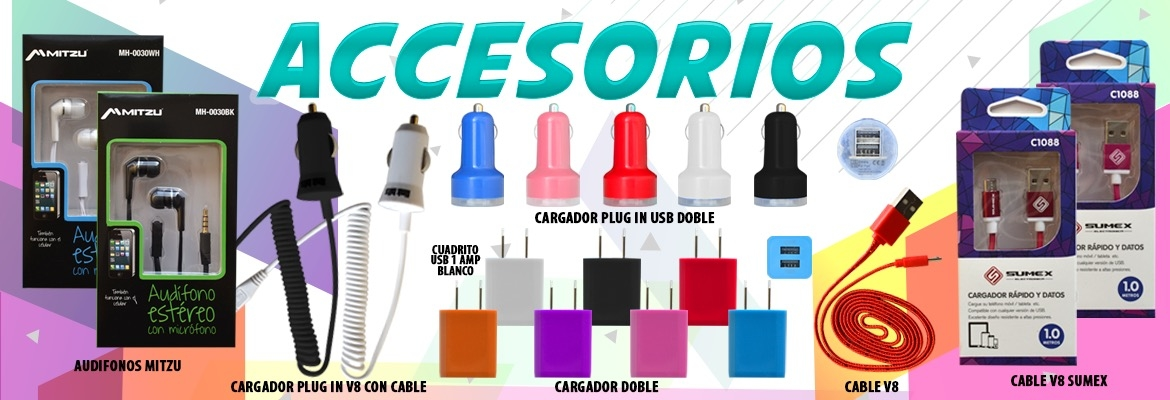
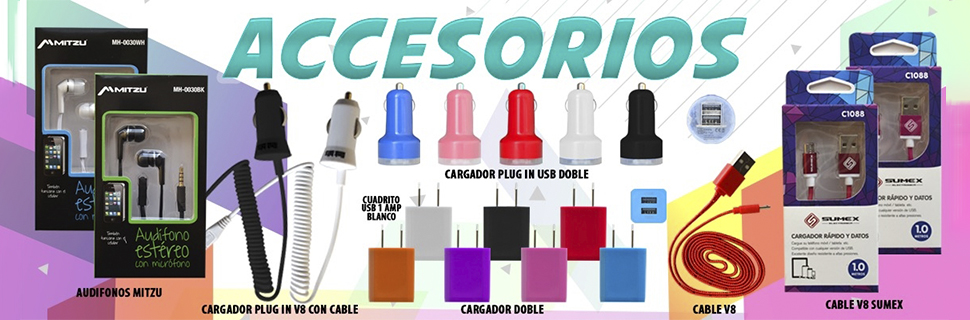
act
banner responsive...(machetico chan)

diff --git a/htmls/home.php b/htmls/home.php
@@ -12,20 +12,20 @@
         <li data-target="#myCarousel" data-slide-to="3"></li>
       </ol>
       <!-- Wrapper for slides -->
-      <div class="carousel-inner"> <!-- Recuerden cambiar las imagenes por una que sean de tipo marketin -->
+      <div class="carousel-inner" style="height:40%;"> <!-- Recuerden cambiar las imagenes por una que sean de tipo marketin -->
         <div class="item active">
-          <img style="height:400px;width:100%;" src="./../img/2.jpg" alt="Imagen1" >
+          <img style="height:100%;width:100%;" src="./../img/2.jpg" alt="Imagen1" >
         </div>
 
         <div class="item">
-          <img style="height:400px;width:100%;" src="./../img/3.jpg" alt="Imagen2">
+          <img style="height:100%;width:100%;" src="./../img/3.jpg" alt="Imagen2">
         </div>
 
         <div class="item">
-          <img style="height:400px;width:100%;" src="./../img/1.jpg" alt="Imagen3" >
+          <img style="height:100%;width:100%;" src="./../img/1.jpg" alt="Imagen3" >
         </div>
         <div class="item">
-          <img  style="height:400px;width:100%;" src="./../img/4.jpg" alt="Imagen4" >
+          <img  style="height:100%;width:100%;" src="./../img/4.jpg" alt="Imagen4" >
         </div>
       </div>
 
